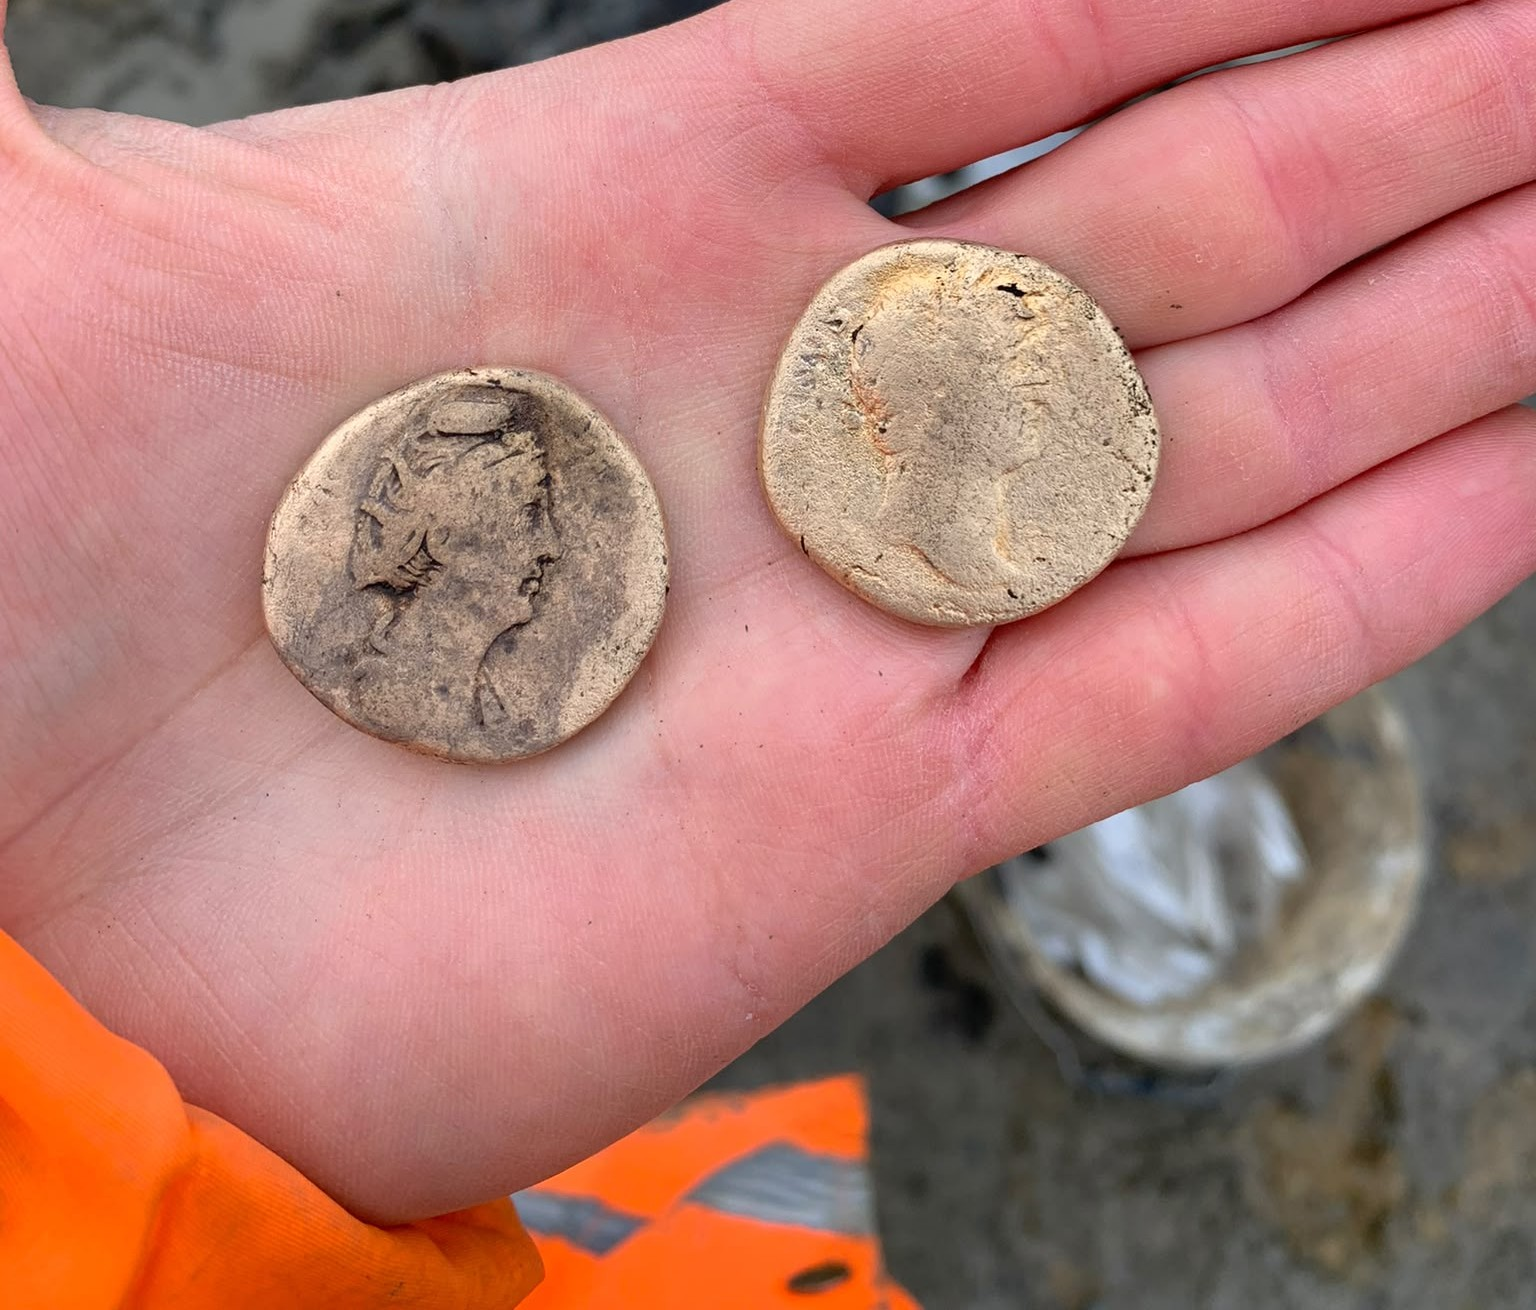
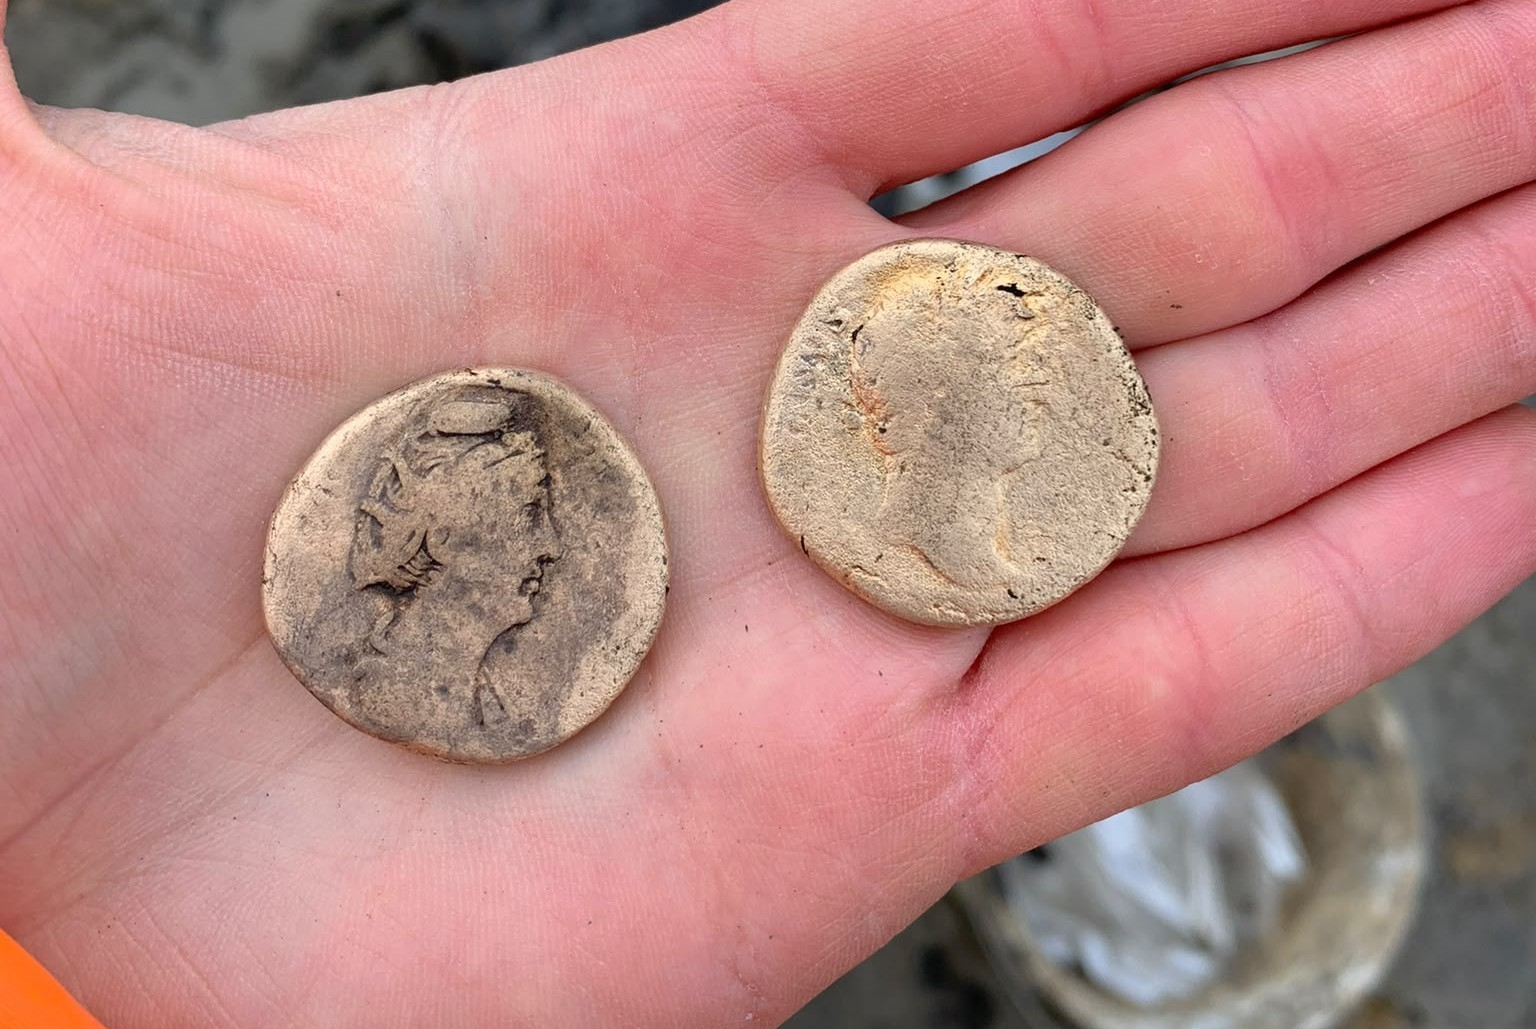
Update coins image; remove carousel slide
Replaced assets/IMG/coins.jpeg with an updated image. Removed the carousel slide referencing assets/IMG/cold.jpg from index.html to clean up the slideshow markup.

diff --git a/index.html b/index.html
@@ -36,8 +36,6 @@
                             alt="Archaeological artifact - Plate"></li>
                     <li class="carousel__slide"><img class="carousel__image" src="assets/IMG/round hole.jpeg"
                             alt="Archaeological site - Round hole"></li>
-                    <li class="carousel__slide"><img class="carousel__image" src="assets/IMG/cold.jpg"
-                            alt="Archaeological artifact - Cold"></li>
                 </ul>
                 <button class="carousel__button carousel__button--right" title="Next slide" aria-label="Next image">
                     <img src="assets/IMG/right.png" alt="">